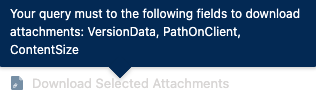
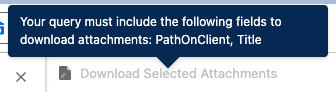
ContentVersion zip download should use the title, not the pathOnClient #1266
Use Title if available in query for ContentVersion zip downloads

resolves #1266

diff --git a/libs/features/query/src/QueryResults/QueryResultsAttachmentDownload.tsx b/libs/features/query/src/QueryResults/QueryResultsAttachmentDownload.tsx
@@ -10,7 +10,7 @@ import {
   isBrowserExtension,
   useRollbar,
 } from '@jetstream/shared/ui-utils';
-import { getErrorMessage, getErrorMessageAndStackObj } from '@jetstream/shared/utils';
+import { getErrorMessage, getErrorMessageAndStackObj, REGEX, splitFilenameByExtension } from '@jetstream/shared/utils';
 import { Maybe, SalesforceOrgUi, SalesforceRecord } from '@jetstream/types';
 import { Icon, Modal, ScopedNotification, Tooltip } from '@jetstream/ui';
 import { useAmplitude } from '@jetstream/ui-core';
@@ -27,6 +27,11 @@ export interface QueryResultsAttachmentDownloadProps {
 
 interface EnabledObjectFiledMapping {
   bodyField: string;
+  /**
+   * titleField is optional and will be used if available, otherwise fallback to nameField
+   */
+  titleField?: string;
+  extensionField?: string;
   nameField: string;
   sizeField: string;
 }
@@ -34,23 +39,64 @@ interface EnabledObjectFiledMapping {
 export const FILE_DOWNLOAD_FIELD_MAP = new Map<string, EnabledObjectFiledMapping>();
 FILE_DOWNLOAD_FIELD_MAP.set('attachment', { bodyField: 'Body', nameField: 'Name', sizeField: 'BodyLength' });
 FILE_DOWNLOAD_FIELD_MAP.set('document', { bodyField: 'Body', nameField: 'Name', sizeField: 'BodyLength' });
-FILE_DOWNLOAD_FIELD_MAP.set('contentversion', { bodyField: 'VersionData', nameField: 'PathOnClient', sizeField: 'ContentSize' });
+FILE_DOWNLOAD_FIELD_MAP.set('contentversion', {
+  bodyField: 'VersionData',
+  titleField: 'Title',
+  extensionField: 'FileExtension',
+  nameField: 'PathOnClient',
+  sizeField: 'ContentSize',
+});
 
 const ROOT_FILENAME = '/api/file/stream-download';
 
-// TODO: duplicate files will overwrite eachother (e.x. contentversion)
 function getFile(selectedOrg: SalesforceOrgUi, sobjectName: string, record: SalesforceRecord): DownZipFile {
   sobjectName = sobjectName.toLowerCase();
   if (FILE_DOWNLOAD_FIELD_MAP.has(sobjectName)) {
     // eslint-disable-next-line @typescript-eslint/no-non-null-assertion
-    const { bodyField, nameField, sizeField } = FILE_DOWNLOAD_FIELD_MAP.get(sobjectName)!;
+    const { bodyField, nameField, extensionField, titleField, sizeField } = FILE_DOWNLOAD_FIELD_MAP.get(sobjectName)!;
+    let recordName = record[nameField];
+    if (titleField && record[titleField]) {
+      if (extensionField && record[extensionField]) {
+        recordName = `${record[titleField]}.${record[extensionField]}`;
+      } else {
+        // extract extension from nameField if it exists - which it should
+        const extension = splitFilenameByExtension(record[nameField])[1];
+        if (extension) {
+          recordName = `${record[titleField] || ''}${extension}`;
+        }
+      }
+    }
+
+    const [fileName, extension] = splitFilenameByExtension(recordName);
+    recordName = `${fileName.replaceAll(REGEX.SAFE_FILENAME, '-')}${extension || ''}`;
+
     return {
       downloadUrl: `${ROOT_FILENAME}?${getOrgUrlParams(selectedOrg, { url: record[bodyField] })}`,
-      name: record[nameField],
+      name: recordName,
       size: record[sizeField],
     };
   }
   throw new Error(`Object type ${sobjectName} does not support file download.`);
+}
+
+function getFileNamesWithoutDuplicates(org: SalesforceOrgUi, sobjectName: string, records: SalesforceRecord[]): DownZipFile[] {
+  return Object.values(
+    records.reduce((acc, record) => {
+      const file = getFile(org, sobjectName, record);
+      let fileName = file.name;
+      const [fileNameWithoutExt, fileExtension] = splitFilenameByExtension(file.name);
+      if (acc[file.name]) {
+        let counter = 1;
+        while (acc[`${fileNameWithoutExt} (${counter})${fileExtension}`]) {
+          counter++;
+        }
+        fileName = `${fileNameWithoutExt} (${counter})${fileExtension}`;
+        file.name = fileName;
+      }
+      acc[fileName] = file;
+      return acc;
+    }, {} as Record<string, DownZipFile>)
+  );
 }
 
 export const QueryResultsAttachmentDownload: FunctionComponent<QueryResultsAttachmentDownloadProps> = ({
@@ -83,7 +129,7 @@ export const QueryResultsAttachmentDownload: FunctionComponent<QueryResultsAttac
       setDisabledReason('');
     } else if (selectedRecords.length) {
       setDisabled(true);
-      setDisabledReason(`Your query must to the following fields to download attachments: ${missingFields.join(', ')}`);
+      setDisabledReason(`Your query must include the following fields to download attachments: ${missingFields.join(', ')}`);
     } else {
       setDisabled(true);
       setDisabledReason('Select one or more records');
@@ -107,8 +153,8 @@ export const QueryResultsAttachmentDownload: FunctionComponent<QueryResultsAttac
       setDisabledReason('');
       setErrorMessage(null);
       setModalOpen(true);
-      // eslint-disable-next-line @typescript-eslint/no-non-null-assertion
-      const files = selectedRecords.map((record) => getFile(selectedOrg, sobjectName!, record));
+
+      const files = getFileNamesWithoutDuplicates(selectedOrg, sobjectName, selectedRecords);
       const url = await getZipDownloadUrl(getFilename(selectedOrg, [sobjectName, 'files']), files);
       setDownloadAttachmentUrl(url);
     } catch (ex) {

diff --git a/libs/features/query/src/QueryResults/QueryResults.tsx b/libs/features/query/src/QueryResults/QueryResults.tsx
@@ -361,7 +361,9 @@ export const QueryResults: FunctionComponent<QueryResultsProps> = React.memo(() 
     // Configure file download content
     if (results.parsedQuery?.sObject && FILE_DOWNLOAD_FIELD_MAP.has(results.parsedQuery.sObject.toLowerCase())) {
       // eslint-disable-next-line @typescript-eslint/no-non-null-assertion
-      const { bodyField, nameField, sizeField } = FILE_DOWNLOAD_FIELD_MAP.get(results.parsedQuery.sObject.toLowerCase())!;
+      const { bodyField, nameField, extensionField, titleField, sizeField } = FILE_DOWNLOAD_FIELD_MAP.get(
+        results.parsedQuery.sObject.toLowerCase()
+      )!;
       const missingFields: string[] = [];
       const fields = new Set(
         results.parsedQuery.fields?.map((field) => field.type === 'Field' && field.field.toLowerCase()).filter(Boolean) || []
@@ -369,8 +371,22 @@ export const QueryResults: FunctionComponent<QueryResultsProps> = React.memo(() 
       if (!fields.has(bodyField.toLowerCase())) {
         missingFields.push(bodyField);
       }
+      const hasTitleField = titleField && fields.has(titleField.toLowerCase());
+      const hasExtensionField = extensionField && fields.has(extensionField.toLowerCase());
+
       if (!fields.has(nameField.toLowerCase())) {
-        missingFields.push(nameField);
+        if (!hasTitleField && !hasExtensionField) {
+          missingFields.push(nameField);
+        }
+        // titleField is optional and will be used if available. But since name field is missing we flag this as missing as well
+        if (titleField && !hasTitleField) {
+          missingFields.push(titleField);
+        }
+        // Extension is only required if nameField is not available, otherwise we can get the extension from the nameField
+        if (titleField && hasTitleField && extensionField && !hasExtensionField) {
+          missingFields.push(nameField);
+          missingFields.push(extensionField);
+        }
       }
       if (!fields.has(sizeField.toLowerCase())) {
         missingFields.push(sizeField);

diff --git a/libs/shared/utils/src/lib/utils.ts b/libs/shared/utils/src/lib/utils.ts
@@ -1071,3 +1071,12 @@ export function getNameOrNameAndLabelFromObj<T>(record: T, nameField: keyof T, l
 export function getNameOrNameAndLabel(name: string, label: string): string {
   return !label || name === label ? name : `${label} (${name})`;
 }
+
+export function splitFilenameByExtension(filename: string): [string, string] {
+  const match = filename.match(REGEX.FILE_EXTENSION);
+  if (match) {
+    const ext = match[0];
+    return [filename.slice(0, -ext.length), ext];
+  }
+  return [filename, ''];
+}

diff --git a/libs/shared/utils/src/lib/regex.ts b/libs/shared/utils/src/lib/regex.ts
@@ -29,4 +29,5 @@ export const REGEX = {
   CONSECUTIVE_UNDERSCORES: /_+/g,
   STARTS_WITH_NUMBER: /^[0-9]/,
   SFDC_ID: /^([0-9a-zA-Z]{16}|[0-9a-zA-Z]{18})$/,
+  FILE_EXTENSION: /\.[a-z0-9]+$/i,
 };
